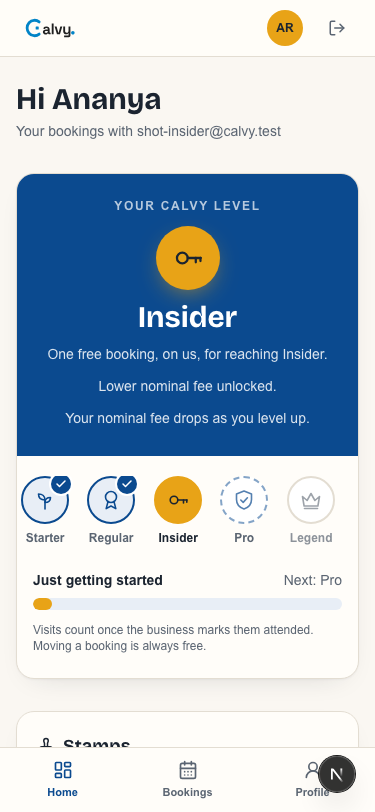
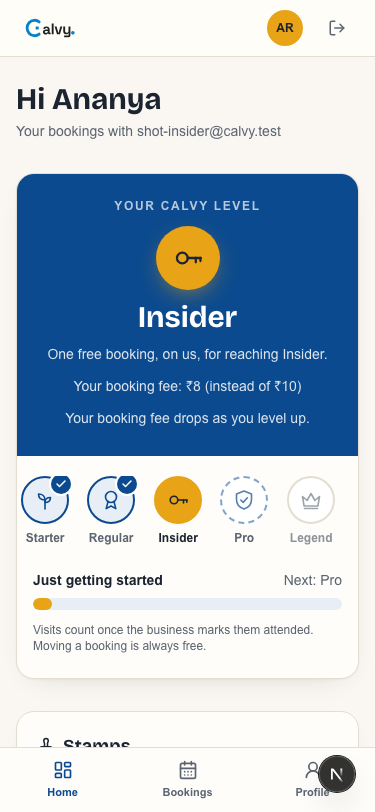
Step 36b: customer areas show the actual booking fee (nominal wording kept for marketing only)

Changed region(s): [[0.2053, 0.4618, 0.792, 0.5234]]

diff --git a/tests/account-redesign.test.ts b/tests/account-redesign.test.ts
@@ -1,7 +1,8 @@
 import { describe, it, expect, vi } from "vitest";
 import { readFileSync, readdirSync } from "fs";
 import { join } from "path";
-import { barPercent, feeLines, ladderSteps, progressWords, REFERRAL_RULE, shareOrCopy, stampDots, STREAK_COPY } from "@/lib/my/levelUi";
+import { barPercent, feeLines, ladderSteps, progressWords, referralRule, rupees, shareOrCopy, stampDots, STREAK_COPY } from "@/lib/my/levelUi";
+import { levelFee, DEFAULT_LEVEL_CONFIG } from "@/lib/rewards/levels";
 import { LEVELS } from "@/lib/rewards/levels";
 
 // Step 36b: the customer dashboard. The level ladder, the plain-words progress, the stamps, the share fallback, and the wording rule: no fee amounts.
@@ -35,37 +36,47 @@ describe("progress is in words, never numbers", () => {
   });
 });
 
-describe("fee wording", () => {
-  it("fee lines appear only where a nominal fee applies, and never carry an amount", () => {
-    for (const lvl of LEVELS) expect(feeLines(lvl, false)).toEqual([]);
-    expect(feeLines("STARTER", true)).toEqual(["Your nominal fee drops as you level up."]);
-    expect(feeLines("PRO", true)).toEqual(["Lower nominal fee unlocked.", "Your nominal fee drops as you level up."]);
-    for (const lvl of LEVELS) for (const l of feeLines(lvl, true)) expect(l).not.toMatch(/\d|₹|Rs/);
-    expect(REFERRAL_RULE).not.toMatch(/\d|₹|Rs/);
+describe("fee wording: signed-in customers see their actual fee, the public marketing pages say \"nominal fee\"", () => {
+  it("the hero shows the customer's real fee for their level, from the same function checkout uses, only where a fee applies", () => {
+    expect(rupees(800)).toBe("\u20B98");
+    for (const lvl of LEVELS) expect(feeLines(lvl, false, 800, 1000)).toEqual([]);
+    expect(feeLines("INSIDER", true, 800, 1000)).toEqual(["Your booking fee: \u20B98 (instead of \u20B910)", "Your booking fee drops as you level up."]);
+    expect(feeLines("STARTER", true, 1000, 1000)).toEqual(["Your booking fee: \u20B910", "Your booking fee drops as you level up."]);
+    expect(feeLines("LEGEND", true, 600, 1000)).toEqual(["Your booking fee: \u20B96 (instead of \u20B910)"]);
+    // The number is the level's configured fee: the same levelFee() the booking charge reads.
+    for (const [lvl, rs] of [["STARTER", 10], ["REGULAR", 9], ["INSIDER", 8], ["PRO", 7], ["LEGEND", 6]] as const) {
+      const fee = levelFee(lvl, 1000, DEFAULT_LEVEL_CONFIG);
+      expect(feeLines(lvl, true, fee, 1000)[0]).toContain(`\u20B9${rs}`);
+    }
+  });
+  it("the referral rule names the real free confirmation", () => {
+    expect(referralRule(1000)).toBe("When your friend attends their first visit, you both get a free \u20B910 confirmation (up to 5 a month).");
   });
   const read = (p: string) => readFileSync(p, "utf8");
-  const AMOUNT = /(?:Rs\.?|₹|INR)\s?\d/;
-  it("no customer-facing screen or email shows a fee amount (checkout, receipts and invoices are the exceptions, and are not in this list)", () => {
-    const files = [
-      "app/account/(app)/page.tsx", "app/account/(app)/LevelUpCelebration.tsx", "app/account/(app)/ForgetDevice.tsx", "app/account/(app)/MyClient.tsx",
-      "components/my/LevelHero.tsx", "components/my/LevelIcons.tsx", "components/my/AccountCards.tsx", "components/my/RateVisits.tsx", "components/my/SettingsParts.tsx", "components/my/BookingCard.tsx",
-      "lib/my/levelUi.ts", "lib/customerView.ts", "lib/queue.ts", "app/booking/[code]/TrackClient.tsx", "lib/notifications/templates.tsx",
-    ];
-    for (const f of files) expect(read(f).split("\n").filter((l) => !/^\s*(\/\/|\*|\/\*)/.test(l)).filter((l) => AMOUNT.test(l)), f).toEqual([]);
-    // The email components: only the ones customers receive (receipts/invoices carry the paid amount on purpose).
-    const emails = read("emails/templates.tsx");
-    for (const name of ["LevelUpEmail", "BookingConfirmationEmail", "QueueMovedBackEmail", "QueueClosedEmail"]) {
-      const i = emails.indexOf(`export function ${name}`);
-      if (i < 0) continue;
-      const body = emails.slice(i, emails.indexOf("\nexport function", i + 10) === -1 ? undefined : emails.indexOf("\nexport function", i + 10));
-      expect(AMOUNT.test(body), name).toBe(false);
+  const code = (p: string) => read(p).split("\n").filter((l) => !/^\s*(\/\/|\*|\/\*)/.test(l)).join("\n");
+  const FEE = /(?:\u20B9|Rs\.?)\s?(?:10|[6-9])(?!\d)/;
+  it("logged-in customer areas, emails and the tracking page keep exact amounts (no 'nominal' replacements there)", () => {
+    for (const f of ["components/my/LevelHero.tsx", "app/account/(app)/LevelUpCelebration.tsx", "lib/customerView.ts", "lib/queue.ts", "app/booking/[code]/TrackClient.tsx", "emails/templates.tsx", "lib/notifications/templates.tsx"]) {
+      expect(code(f), f).not.toMatch(/nominal/i);
     }
-    expect(emails).not.toMatch(/Rs 10 confirmation/);
+    expect(code("lib/customerView.ts")).toContain("Rs 10");
+    expect(code("emails/templates.tsx")).toContain("Rs 10 confirmation fee");
+    expect(code("lib/queue.ts")).toContain("Rs 10 confirmation fee");
+    expect(code("app/booking/[code]/TrackClient.tsx")).toContain("Rs 10 confirmation fee");
+    expect(code("app/account/(app)/LevelUpCelebration.tsx")).toContain("{feeLabel}");
+    expect(code("lib/notifications/templates.tsx")).toMatch(/feeLabel=\{`Rs \$\{p\.feeMinor \/ 100\}`\}/);
   });
-  it("no level perk names an amount", () => {
+  it("the public marketing home page and About carry no Calvy fee amount (they say 'nominal fee'); checkout, terms, refund policy, help and owner settings keep exact amounts", () => {
+    for (const f of ["app/page.tsx", "app/about/page.tsx", "lib/landingFeatures.ts", "lib/landingFaq.ts", "lib/pricing.ts", "lib/planCopy.ts", ...readdirSync("components/landing").map((n) => `components/landing/${n}`)]) expect(code(f), f).not.toMatch(FEE);
+    expect(code("lib/landingFeatures.ts")).toMatch(/nominal confirmation fee/);
+    expect(code("lib/planCopy.ts")).toMatch(/nominal platform fee/);
+    expect(code("app/terms/page.tsx")).toContain("\u20B910");
+    expect(code("app/refund-policy/page.tsx")).toContain("\u20B910");
+    expect(code("lib/helpArticles.ts")).toContain("Rs 10");
+  });
+  it("level perks carry no amount", () => {
     const src = read("lib/rewards/levelService.ts");
-    const perks = src.slice(src.indexOf("export const PERK_TEXT"), src.indexOf("/** Pro and Legend"));
-    expect(perks).not.toMatch(AMOUNT);
+    expect(src.slice(src.indexOf("export const PERK_TEXT"), src.indexOf("/** Pro and Legend"))).not.toMatch(FEE);
   });
 });
 

diff --git a/emails/templates.tsx b/emails/templates.tsx
@@ -28,7 +28,7 @@ export interface BookingProps {
   trackUrl?: string;
   /** Online consultation. meetingUrl is null when the business has not set a link yet. Only confirmation and reminder pass it. */
   online?: { meetingUrl: string | null };
-  /** Loyalty progress (confirmation only): every 7th attended visit has the nominal confirmation fee free. */
+  /** Loyalty progress (confirmation only): every 8th attended visit has the Rs 10 confirmation free. */
   reward?: { done: number; of: number; available: number };
   /** Confirmation only: the customer's account link. `claimed` false = a one-time "claim your Calvy account" link; true = a plain link to their account. */
   claimUrl?: string;
@@ -37,7 +37,7 @@ export interface BookingProps {
 
 /** Loyalty progress line for the confirmation email and its text version. */
 export function rewardLine(r: { done: number; of: number; available: number }): string {
-  return r.available > 0 ? "A free booking is ready: your next nominal confirmation fee is on us." : `Loyalty: ${r.done} of ${r.of} attended visits toward a free booking.`;
+  return r.available > 0 ? "A free booking is ready: your next Rs 10 confirmation is on us." : `Loyalty: ${r.done} of ${r.of} attended visits toward a free booking.`;
 }
 
 const appt = (p: BookingProps) => t(p.terms ?? {}, "appointment");
@@ -182,7 +182,7 @@ export function QueueMovedBackEmail(p: BookingProps & { place: number }) {
       <H>You were not here when we called you</H>
       <P>Hi {p.clientName.split(" ")[0]}, your place in the queue at <strong style={{ color: brand.ink }}>{p.businessName}</strong> came up but you were not present, so we moved you back in the queue. Please stay close.</P>
       <BookingDetails p={p} />
-      <P>You are now number {p.place} in line. You get four calls in all: if you are not present for the fourth, this {appt(p)} is closed. Your nominal confirmation fee is kept, and you can rebook once without paying it again.</P>
+      <P>You are now number {p.place} in line. You get four calls in all: if you are not present for the fourth, this {appt(p)} is closed. Your Rs 10 confirmation fee is kept, and you can rebook once without paying it again.</P>
       {p.trackUrl ? <CTA color={p.tenant?.color} fg={p.tenant?.fg} href={p.trackUrl} label="Track your place in line" /> : null}
     </EmailLayout>
   );
@@ -216,7 +216,7 @@ export function QueueClosedEmail(p: BookingProps & { reason: "missed" | "cancell
       <BookingDetails p={p} />
       {p.feeKept ? (
         <P>
-          Your nominal confirmation fee is kept, and you can rebook once at {p.businessName} without paying it again.
+          Your Rs 10 confirmation fee is kept, and you can rebook once at {p.businessName} without paying it again.
         </P>
       ) : (
         <P>You can book again on any date.</P>
@@ -469,14 +469,14 @@ export function BillingLinksModeEmail({ businessName, businessId, reason, adminU
   );
 }
 
-export interface LevelUpProps { levelLabel: string; perk: string | null; accountUrl: string }
+export interface LevelUpProps { levelLabel: string; feeLabel: string; perk: string | null; accountUrl: string }
 
 /** A customer reached a new Calvy level. Names only the level, the new fee and the perk; the requirements are never listed. */
-export function LevelUpEmail({ levelLabel, perk, accountUrl }: LevelUpProps) {
+export function LevelUpEmail({ levelLabel, feeLabel, perk, accountUrl }: LevelUpProps) {
   return (
     <EmailLayout preview={`You reached ${levelLabel}`}>
       <H>You reached {levelLabel}</H>
-      <P>Thank you for showing up. Your nominal confirmation fee is now lower at businesses where it applies.</P>
+      <P>Thank you for showing up. Your Calvy confirmation fee is now {feeLabel} at businesses where it applies.</P>
       {perk && <P>{perk}</P>}
       <CTA href={accountUrl} label="See my level" />
     </EmailLayout>

diff --git a/lib/notifications/templates.tsx b/lib/notifications/templates.tsx
@@ -142,12 +142,12 @@ export const TEMPLATES = {
   queue_moved_back: define<BookingPayload & { place: number }>({
     subject: (p) => `You are now #${p.place} in line at ${p.businessName}`,
     Email: (p) => <QueueMovedBackEmail {...p} />,
-    text: (p) => lines(`Hi ${first(p.clientName)}, you were not present when called at ${p.businessName}, so you were moved back. You are now number ${p.place} in line.`, `You get four calls in all: if you are not present for the fourth, this ${appt(p)} is closed. Your nominal confirmation fee is kept, and you can rebook once without paying it again.`, p.trackUrl && `Track your place in line: ${p.trackUrl}`),
+    text: (p) => lines(`Hi ${first(p.clientName)}, you were not present when called at ${p.businessName}, so you were moved back. You are now number ${p.place} in line.`, `You get four calls in all: if you are not present for the fourth, this ${appt(p)} is closed. Your Rs 10 confirmation fee is kept, and you can rebook once without paying it again.`, p.trackUrl && `Track your place in line: ${p.trackUrl}`),
   }),
   queue_closed: define<BookingPayload & { reason: "missed" | "cancelled"; feeKept?: boolean; loginUrl?: string }>({
     subject: (p) => (p.reason === "missed" ? `You missed your ${appt(p)} at ${p.businessName}` : `Your ${appt(p)} at ${p.businessName} was cancelled`),
     Email: (p) => <QueueClosedEmail {...p} />,
-    text: (p) => lines(p.reason === "missed" ? `Hi ${first(p.clientName)}, your number was called four times at ${p.businessName} and you were not present, so the ${appt(p)} was closed.` : `Hi ${first(p.clientName)}, your ${appt(p)} at ${p.businessName} was cancelled.`, p.feeKept ? "Your nominal confirmation fee is kept, and you can rebook once at " + p.businessName + " without paying it again." : "You can book again on any date.", p.loginUrl && `Book another date: ${p.loginUrl}`),
+    text: (p) => lines(p.reason === "missed" ? `Hi ${first(p.clientName)}, your number was called four times at ${p.businessName} and you were not present, so the ${appt(p)} was closed.` : `Hi ${first(p.clientName)}, your ${appt(p)} at ${p.businessName} was cancelled.`, p.feeKept ? "Your Rs 10 confirmation fee is kept, and you can rebook once at " + p.businessName + " without paying it again." : "You can book again on any date.", p.loginUrl && `Book another date: ${p.loginUrl}`),
   }),
   invoice: define<InvoicePayload>({
     subject: (p) => `Receipt from ${p.businessName}: ${formatCurrencyAmount(p.price ?? 0, p.currency ?? "INR")}`,
@@ -272,10 +272,10 @@ export const TEMPLATES = {
     Email: (p) => <MemberLinkEmail name={p.name} linkUrl={p.secret} />,
     text: (p) => lines(`Hi ${first(p.name)}, tap the link to sign in and go back to your booking with your member price. No password needed.`, p.secret, "This link works once and expires in 15 minutes. If you did not ask for it, ignore this email."),
   }),
-  level_up: define<{ level: string; levelLabel: string; perk: string | null; accountUrl: string }>({
+  level_up: define<{ level: string; levelLabel: string; feeMinor: number; baseFeeMinor: number; perk: string | null; accountUrl: string }>({
     subject: (p) => `You reached ${p.levelLabel} on Calvy`,
-    Email: (p) => <LevelUpEmail levelLabel={p.levelLabel} perk={p.perk} accountUrl={p.accountUrl} />,
-    text: (p) => lines(`You reached ${p.levelLabel}. Your nominal confirmation fee is now lower at businesses where it applies.`, p.perk ?? "", p.accountUrl),
+    Email: (p) => <LevelUpEmail levelLabel={p.levelLabel} feeLabel={`Rs ${p.feeMinor / 100}`} perk={p.perk} accountUrl={p.accountUrl} />,
+    text: (p) => lines(`You reached ${p.levelLabel}. Your Calvy confirmation fee is now Rs ${p.feeMinor / 100} at businesses where it applies.`, p.perk ?? "", p.accountUrl),
   }),
   customer_password_reset: define<AuthPayload>({
     subject: () => "Reset your password",

diff --git a/lib/my/levelUi.ts b/lib/my/levelUi.ts
@@ -1,5 +1,5 @@
-// Pure helpers for the customer dashboard's level hero, stamps and referral card (no React, no database). Everything the customer reads here is
-// worded WITHOUT amounts: the fee is "nominal", never a number. The only place an amount appears is checkout, where the exact charge must be shown.
+// Pure helpers for the customer dashboard's level hero, stamps and referral card (no React, no database). A signed-in customer sees their ACTUAL booking
+// fee here, from the same source as checkout (levelFee, the level's configured fee). Only the public marketing home page and About say "nominal fee".
 import { LEVELS, LEVEL_LABEL, levelIndex, type LevelId } from "@/lib/rewards/levels";
 
 export type LadderState = "done" | "current" | "next" | "locked";
@@ -29,13 +29,18 @@ export function barPercent(ratio: number, atTop: boolean): number {
   return Math.min(96, Math.max(6, Math.round(r * 100)));
 }
 
+/** Rupees from paise, whole numbers only (the fee ladder is 10, 9, 8, 7, 6). */
+export const rupees = (minor: number): string => `\u20B9${Math.round(minor / 100)}`;
+
 /**
- * The fee lines of the level hero. They appear ONLY for someone who has booked at a business that charges Calvy's nominal confirmation fee
- * (India, Free plan). Everyone else sees the level, perks and progress and nothing about a fee. No line ever carries an amount.
+ * The fee lines of the level hero: "Your booking fee: ₹8" (the customer's real fee for their level, the same number checkout charges). They appear ONLY
+ * for someone who has booked at a business that charges Calvy's confirmation fee (India, Free plan). Everyone else sees the level, perks and progress.
  */
-export function feeLines(level: LevelId, feeApplies: boolean): string[] {
+export function feeLines(level: LevelId, feeApplies: boolean, feeMinor: number, baseFeeMinor: number): string[] {
   if (!feeApplies) return [];
-  return level === "STARTER" ? ["Your nominal fee drops as you level up."] : ["Lower nominal fee unlocked.", "Your nominal fee drops as you level up."];
+  const lines = [`Your booking fee: ${rupees(feeMinor)}${feeMinor < baseFeeMinor ? ` (instead of ${rupees(baseFeeMinor)})` : ""}`];
+  if (level !== "LEGEND") lines.push("Your booking fee drops as you level up.");
+  return lines;
 }
 
 /** Seven stamp dots: filled = an attended visit. */
@@ -63,5 +68,5 @@ export async function shareOrCopy(
   return "failed";
 }
 
-/** One line of rules, without amounts. */
-export const REFERRAL_RULE = "When your friend attends their first visit, you both get a free booking confirmation (limited per month).";
+/** One line of rules. The free confirmation is worth the base fee. */
+export const referralRule = (baseFeeMinor: number): string => `When your friend attends their first visit, you both get a free ${rupees(baseFeeMinor)} confirmation (up to 5 a month).`;

diff --git a/components/my/AccountCards.tsx b/components/my/AccountCards.tsx
@@ -2,7 +2,7 @@
 import { useState } from "react";
 import Link from "next/link";
 import { Flame, Share2, Copy, Check, Stamp } from "lucide-react";
-import { REFERRAL_RULE, STREAK_COPY, shareOrCopy, stampDots } from "@/lib/my/levelUi";
+import { referralRule, STREAK_COPY, shareOrCopy, stampDots } from "@/lib/my/levelUi";
 
 export function SectionHeading({ id, title, hint, action }: { id: string; title: string; hint?: string; action?: React.ReactNode }) {
   return (
@@ -60,12 +60,12 @@ export function StreakCard({ months }: { months: number }) {
 }
 
 /** The referral code and link: Share with the browser's share sheet, or Copy when there is none. The rules are one line. */
-export function ReferralCard({ code, url }: { code: string | null; url: string | null }) {
+export function ReferralCard({ code, url, baseFeeMinor }: { code: string | null; url: string | null; baseFeeMinor: number }) {
   const [state, setState] = useState<"idle" | "shared" | "copied" | "failed">("idle");
   async function go() {
     if (!url) return;
     const r = await shareOrCopy(
-      { title: "Book with Calvy", text: "Book your visit here and we both get a free booking confirmation.", url },
+      { title: "Book with Calvy", text: "Book your visit here and we both get a free confirmation.", url },
       { share: typeof navigator !== "undefined" && "share" in navigator ? (d) => navigator.share(d) : undefined, copy: typeof navigator !== "undefined" && navigator.clipboard ? (s) => navigator.clipboard.writeText(s) : undefined },
     );
     if (r === "shared" || r === "copied" || r === "failed") setState(r);
@@ -86,7 +86,7 @@ export function ReferralCard({ code, url }: { code: string | null; url: string |
       ) : (
         <p className="mt-3 text-sm text-cv-mute">Your referral link appears after your first booking.</p>
       )}
-      <p className="mt-4 text-xs text-cv-mute">{REFERRAL_RULE}</p>
+      <p className="mt-4 text-xs text-cv-mute">{referralRule(baseFeeMinor)}</p>
     </section>
   );
 }

diff --git a/components/my/LevelHero.tsx b/components/my/LevelHero.tsx
@@ -7,10 +7,10 @@ import { LevelIcon } from "@/components/my/LevelIcons";
 
 /**
  * The hero of /account: where the customer is on the Calvy level ladder. Five steps (past ones ticked, the current one filled marigold, the rest muted),
- * a bar that fills to the next level in plain words (never a number), the level's perk, and (only where a nominal fee applies to them) one line about it.
+ * a bar that fills to the next level in plain words (never a number), the level's perk, and (only where a confirmation fee applies to them) their actual booking fee.
  * On a narrow phone the ladder scrolls sideways and opens with the current level in view.
  */
-export function LevelHero({ level, perk, feeApplies, progressRatio }: { level: LevelId; perk: string | null; feeApplies: boolean; progressRatio: number }) {
+export function LevelHero({ level, perk, feeApplies, feeMinor, baseFeeMinor, progressRatio }: { level: LevelId; perk: string | null; feeApplies: boolean; feeMinor: number; baseFeeMinor: number; progressRatio: number }) {
   const steps = ladderSteps(level);
   const atTop = level === "LEGEND";
   const words = progressWords(progressRatio, atTop);
@@ -33,7 +33,7 @@ export function LevelHero({ level, perk, feeApplies, progressRatio }: { level: L
           <span className="grid h-16 w-16 place-items-center rounded-full bg-cv-marigold text-cv-ink shadow-[0_8px_24px_-8px_rgba(232,163,23,.7)]"><LevelIcon level={level} size={34} /></span>
           <h2 id="level-title" data-testid="level-name" className="font-display text-3xl font-bold leading-none sm:text-4xl">{LEVEL_LABEL[level]}</h2>
           {perk && <p className="max-w-md text-sm text-white/85">{perk}</p>}
-          {feeLines(level, feeApplies).map((l) => <p key={l} data-testid="fee-line" className="max-w-md text-sm text-white/85">{l}</p>)}
+          {feeLines(level, feeApplies, feeMinor, baseFeeMinor).map((l) => <p key={l} data-testid="fee-line" className="max-w-md text-sm text-white/85">{l}</p>)}
         </div>
       </div>
 

diff --git a/app/account/(app)/LevelUpCelebration.tsx b/app/account/(app)/LevelUpCelebration.tsx
@@ -3,7 +3,7 @@ import { useEffect, useRef, useState } from "react";
 import { PartyPopper } from "lucide-react";
 
 /** The level-up screen: shown once after reaching a new level, closed with one button (which tells the server it was seen). */
-export function LevelUpCelebration({ level, perk }: { level: string; perk: string | null }) {
+export function LevelUpCelebration({ level, feeLabel, perk }: { level: string; feeLabel: string; perk: string | null }) {
   const [open, setOpen] = useState(true);
   const btn = useRef<HTMLButtonElement>(null);
   useEffect(() => { btn.current?.focus(); }, []);
@@ -17,7 +17,7 @@ export function LevelUpCelebration({ level, perk }: { level: string; perk: strin
       <div className="w-full max-w-sm rounded-3xl bg-white p-8 text-center shadow-xl">
         <span className="mx-auto grid h-14 w-14 place-items-center rounded-full bg-cv-marigold text-cv-ink"><PartyPopper size={28} aria-hidden /></span>
         <h2 id="levelup-title" className="font-display font-bold text-2xl mt-4">You reached {level}!</h2>
-        <p className="text-sm text-[#4b4b5e] mt-2">Thank you for showing up. Your nominal fee is now lower where it applies.</p>
+        <p className="text-sm text-[#4b4b5e] mt-2">Thank you for showing up. Your confirmation fee is now <strong>{feeLabel}</strong> where it applies.</p>
         {perk && <p className="text-sm mt-3">{perk}</p>}
         <button ref={btn} type="button" onClick={close} className="mt-6 h-11 w-full rounded-xl bg-cv-blue hover:bg-cv-blue-dark text-white font-semibold">Great, thanks</button>
       </div>

diff --git a/tests/queue.test.ts b/tests/queue.test.ts
@@ -151,14 +151,14 @@ describe("plain-language outcomes", () => {
   });
   it("miss 4: closed, the Rs 10 confirmation fee is kept for one rebooking", () => {
     expect(describeOutcome({ outcome: "no_show", token: 3, name: "Riya", feeKept: true, called, emailed: true })).toBe(
-      "Token 3 (Riya) closed: not present after being called 4 times. The nominal confirmation fee is kept, and they can rebook once without paying it again. Now serving token 4 (Aman). They were emailed how to book another date.",
+      "Token 3 (Riya) closed: not present after being called 4 times. The Rs 10 confirmation fee is kept, and they can rebook once without paying it again. Now serving token 4 (Aman). They were emailed how to book another date.",
     );
   });
   it("nothing paid online: no fee note", () => {
     expect(describeOutcome({ outcome: "no_show", token: 3, name: "Walk-in", feeKept: false, emailed: false })).not.toContain("confirmation fee");
   });
   it("cancelled", () => {
-    expect(describeOutcome({ outcome: "cancelled", token: 3, name: "Riya", feeKept: true, emailed: true })).toContain("Token 3 (Riya) cancelled. The nominal confirmation fee is kept");
+    expect(describeOutcome({ outcome: "cancelled", token: 3, name: "Riya", feeKept: true, emailed: true })).toContain("Token 3 (Riya) cancelled. The Rs 10 confirmation fee is kept");
   });
   it("no email on file says so", () => {
     expect(describeOutcome({ outcome: "moved_back", token: 3, misses: 1, place: 2, emailed: false })).toContain("No email on file");

diff --git a/app/booking/[code]/TrackClient.tsx b/app/booking/[code]/TrackClient.tsx
@@ -103,7 +103,7 @@ export function TrackClient({ code, initial, back }: { code: string; initial: Tr
             </Card>
             {view.movedBack && (
               <p className="text-sm text-amber-800 bg-amber-50 border border-amber-200 rounded-xl px-4 py-3">
-                You were not here when your number was called, so you were moved back (missed {view.missedCalls} of 4 calls). Please stay close. After the fourth missed call this {appt} is closed. If you paid the nominal confirmation fee, it is kept and you can rebook once at this business without paying it again.
+                You were not here when your number was called, so you were moved back (missed {view.missedCalls} of 4 calls). Please stay close. After the fourth missed call this {appt} is closed. If you paid the Rs 10 confirmation fee, it is kept and you can rebook once at this business without paying it again.
               </p>
             )}
           </>
@@ -165,7 +165,7 @@ function WalletNote({ page, appt, color, fg }: { page: TrackingPage; appt: strin
     <div className="mt-3 space-y-3">
       {feeKept ? (
         <p>
-          Not attended — confirmation still valid. Your nominal confirmation fee is kept, and you can rebook once at {business.name} without paying it again.
+          Not attended — confirmation still valid. Your Rs 10 confirmation fee is kept, and you can rebook once at {business.name} without paying it again.
         </p>
       ) : (
         <p>You can book again on any date.</p>

diff --git a/app/account/(app)/page.tsx b/app/account/(app)/page.tsx
@@ -42,9 +42,9 @@ export default async function MyOverviewPage() {
   return (
     <div className="mx-auto w-full max-w-[1100px] space-y-8 lg:space-y-10">
       <PageHeader title={`Hi ${first}`} subtitle={`Your bookings with ${data.me.email}`} />
-      {level?.pendingLevelUp && <LevelUpCelebration level={level.pendingLevelUp.label} perk={level.perk} />}
+      {level?.pendingLevelUp && <LevelUpCelebration level={level.pendingLevelUp.label} feeLabel={`\u20B9${level.feeMinor / 100}`} perk={level.perk} />}
 
-      {level && <LevelHero level={level.level} perk={level.perk} feeApplies={feeApplies} progressRatio={level.progressRatio} />}
+      {level && <LevelHero level={level.level} perk={level.perk} feeApplies={feeApplies} feeMinor={level.feeMinor} baseFeeMinor={level.baseFeeMinor} progressRatio={level.progressRatio} />}
 
       {(reward || level || referral) && (
         <div className="grid gap-4 lg:grid-cols-2 lg:gap-6">
@@ -52,7 +52,7 @@ export default async function MyOverviewPage() {
             {reward && <StampsCard done={reward.done} of={reward.of} available={reward.available} bookHref={bookAgain} />}
             {level && <StreakCard months={level.streakMonths} />}
           </div>
-          <ReferralCard code={referral?.code ?? null} url={referralUrl} />
+          <ReferralCard code={referral?.code ?? null} url={referralUrl} baseFeeMinor={level?.baseFeeMinor ?? 1000} />
         </div>
       )}
 

diff --git a/lib/rewards/levelService.ts b/lib/rewards/levelService.ts
@@ -118,7 +118,7 @@ async function queueLevelUpEmail(identity: string, level: LevelId, cfg: LevelCon
     const base = PLAN_LIMITS.free.platformFeeMinorIN;
     await notify({
       event: "level.up", audience: "CUSTOMER", subjectId: identity, version: `${level}:${istDay(now)}`, recipient: identity.slice(2), template: "level_up",
-      payload: { level, levelLabel: LEVEL_LABEL[level], perk: PERK_TEXT[level] ?? null, accountUrl: `${(process.env.NEXT_PUBLIC_APP_URL ?? "https://calvy.io").replace(/\/+$/, "")}/account` },
+      payload: { level, levelLabel: LEVEL_LABEL[level], feeMinor: levelFee(level, base, cfg), baseFeeMinor: base, perk: PERK_TEXT[level] ?? null, accountUrl: `${(process.env.NEXT_PUBLIC_APP_URL ?? "https://calvy.io").replace(/\/+$/, "")}/account` },
     });
   } catch (err) {
     logger.error("[Levels] level-up email failed", { err });

diff --git a/tests/email-snapshots.test.ts b/tests/email-snapshots.test.ts
@@ -43,7 +43,7 @@ const FIXTURES: Record<TemplateId, object> = {
   owner_magic_link: { name: "Riya Kapoor", secret: SECRET },
   email_verified: { name: "Riya Kapoor" },
   onboarding_reminder: { name: "Riya Kapoor", n: 2, secret: SECRET },
-  level_up: { level: "INSIDER", levelLabel: "Insider", perk: "One free booking, on us, for reaching Insider.", accountUrl: "https://x.test/account" },
+  level_up: { level: "INSIDER", levelLabel: "Insider", feeMinor: 800, baseFeeMinor: 1000, perk: "One free booking, on us, for reaching Insider.", accountUrl: "https://x.test/account" },
   lead: { name: "Asha Rao", demoRequested: true },
   form_notification: { title: "New lead", fields: { Name: "Jo", Demo: true }, at: "2 Nov 2026, 10:00" },
 };
